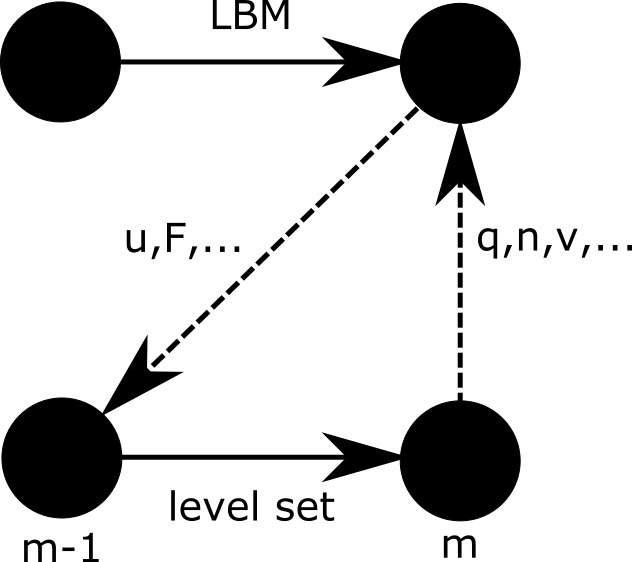
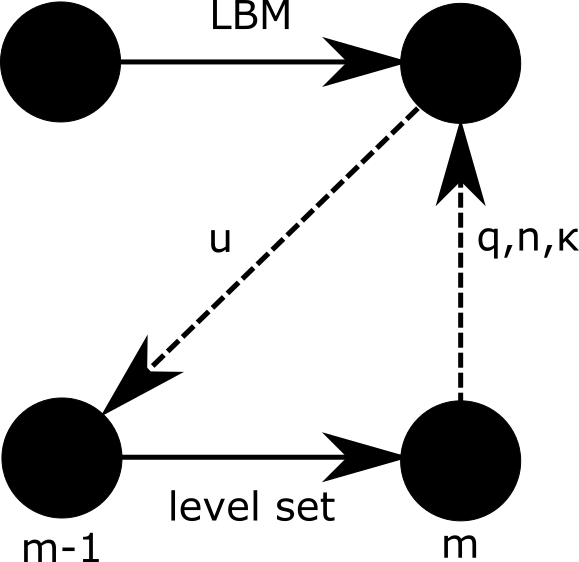
Paper in progress

diff --git a/Paper/paper.tex b/Paper/paper.tex
@@ -62,7 +62,7 @@ daniel.zint@fau.de % ist das so richtig?
 \slugger{siads}{xxxx}{xx}{x}{x--x}}%slugger should be set to juq, siads, sifin, or siims
 
 \begin{abstract}
-	We implemented the lattice Boltzmann method for immiscible multiphase flow simulations and combined it with the level set method according to the paper of G. Th\"ommes \cite{Thoemmes}. The level set method is used to calculate the movement of the interface between the two phases. The input for the level set method is computed by the lattice Boltzmann method. We reimplemented the test cases that are mentioned in the paper, to study the method-coupling and its impact on accuracy.
+	We implemented the lattice Boltzmann method for immiscible multiphase flow simulations and combined it with the level set method according to the paper of G. Th\"ommes et al. \cite{Thoemmes}. The level set method is used to calculate the movement of the interface between the two phases. The input for the level set method is computed by the lattice Boltzmann method. We verified our implementation with different test cases.
 \end{abstract}
 
 \begin{keywords}
@@ -83,16 +83,18 @@ daniel.zint@fau.de % ist das so richtig?
 %Something about the two-phase problem and some other algorithms that solve it. We could do this according to the presentation-slides.
 In engineering the immiscible two-phase flow problem often needs to be considered. For example, bubble dynamics are decisive for the design of chemical reactors. Also fingering in oil recovery is a common two-phase problem.
 
-The two-phase flow problem can be described with the Navier-Stokes equations for two incompressible fluids. To apply them, we distribute our domain into three parts: $\Omega_1$ and $\Omega_2$ describe the two fluids and $\Gamma = \delta\Omega_1 \cap \delta\Omega_2$ is the interface (Fig. \ref{intro_phases}). The material properties in each fluid are constant and the interface is assumed to be sharp. Thus the material properties are discontinuous and the fluids won't mix.
+The two-phase flow problem can be described with the Navier-Stokes equations for two incompressible fluids. 
+%TODO: Hier fehlen Referenzen! ausserdem muessen noch die Gleichungen unten gelabelt werden!!!
+To apply them, we distribute our domain into three parts: $\Omega_1$ and $\Omega_2$ describe the two fluids and $\Gamma = \delta\Omega_1 \cap \delta\Omega_2$ is the interface (Fig. \ref{intro_phases}). The material properties in each fluid are constant and the interface is assumed to be sharp. Thus the material properties are discontinuous and the fluids will not mix.
 
 \begin{figure}[h!]
 	\flushright
 	\includegraphics[width=11cm,natwidth=1690,natheight=1174]{skizze.png}
-	\caption{Two fluid domains $\Omega_i$ and the interface $\Gamma$ in between}
+	\caption{Two fluid domains $\Omega_i$ separated by an interface.}
 	\label{intro_phases}
 \end{figure}
 
-The evolution of the flow fields within each fluid can be expressed with the incompressible Navier-Stokes equations:
+The evolution of the flow fields within each fluid can be expressed with the incompressible Navier-Stokes equations
 \begin{equation}
 	\nabla \cdot  \vec u_i = 0 \text{  in } \Omega_i \text{,}
 \end{equation}
@@ -103,29 +105,30 @@ The evolution of the flow fields within each fluid can be expressed with the inc
 \end{equation}
 Here, $u_i$ is the velocity, $p_i$ the pressure, $\nu_i$ the kinematic viscosity and $\varrho_i$ the mass density.
 
-Furthermore, we need boundary conditions and initial conditions. For our domain-boundaries and the interior we can take for example
-\begin{equation}
-	\vec u_i(x,t) = 0 \text{, on } \delta\Omega_i \backslash \Gamma \text{,}
-\end{equation}
-\begin{equation}
+As boundary conditions and initial conditions we can take for example
+\begin{align}
+	\vec u_i(x,t) = 0 \text{, on } \delta\Omega_i \backslash \Gamma \text{,} \\
 	\vec u_i(x,0) = \vec u_{ini,i}(x) \text{, in } \Omega_i \text{.}
-\end{equation}
-For the interface $\Gamma$ we have the influence of the surface tension and a no-slip condition, i.e. continuity of the velocities between the fluid phases. Therefore, we get the following jump conditions:
-\begin{equation}
-	[\vec u] = 0 \text{,  } [T] \cdot \vec n = 2 \sigma \kappa \vec n \text{.}
+\end{align}
+For the interface $\Gamma$ we have the influence of the surface tension and a no-slip condition, i.e. continuity of the velocities between the fluid phases. Therefore, we get the jump conditions
+\begin{align}
+	[\vec u] = 0 \text{,  } \\
+	[T] \cdot \vec n = 2 \sigma \kappa \vec n \text{.}
 	\label{jumpconditions}
+\end{align}
+Here, T is the shear stress tensor, $\sigma$ the surface tension, and $\kappa$ the curvature of the interface with respect to its outer normal $\vec n$. Brackets denote the jump of a quantity at the interface, 
+\begin{equation}
+	[q](\vec x) = \lim_{\epsilon \rightarrow 0} (q(\vec x - \epsilon \vec n) - (q(\vec x + \epsilon \vec n)) \text{ with } \vec x \in \Gamma. % I also turned this around, according to [p].
 \end{equation}
-Here, T is the shear stress tensor, $\sigma$ the surface tension, and $\kappa$ the curvature of the interface with respect to its outer normal $\vec n$. Brackets denote the jump of a quantity at the interface: 
-$[q](\vec x) = \lim_{\epsilon \rightarrow 0} (q(\vec x - \epsilon \vec n) - (q(\vec x + \epsilon \vec n)) \text{ with } \vec x \in \Gamma$ % I also turned this around, according to [p].
-. In Fig. \ref{intro_phases} this would be the jump from $\Omega_1$ to $\Omega_2$. For the other direction the sign changes.
+In Fig. \ref{intro_phases} this is the jump from $\Omega_1$ to $\Omega_2$. For the other direction the sign changes.
 
-There are different approaches to solve the immiscible two-phase problem. The most spread among these approaches is the colour gradient method of Gunstensen and Rothman \cite{GRcg1,GRcg2,GRcg3}. The downside of this method is that it is only applicable for small density and viscosity differences. Another approach is the concept of {\it interaction potentials} by Shan and Chen \cite{ShanChen1,ShanChen2}. This method actually models miscible fluids and can only approximately describe the behavior of immiscible fluids. Furthermore there are free surface methods which only take one fluid in account for computation (\cite{Koerner}). They work best for big density and viscosity differences.
+There are different approaches to solve the immiscible two-phase problem. The most spread among these approaches is the colour gradient method of Gunstensen and Rothman \cite{GRcg1,GRcg2,GRcg3}. The downside of this method is that it is only applicable for small density and viscosity differences. Another approach is the concept of {\it interaction potentials} by Shan and Chen \cite{ShanChen1,ShanChen2}. This method actually models miscible fluids and can only approximately describe the behavior of immiscible fluids. Furthermore there are free surface methods which only take one fluid in account for computation (\cite{Koerner}). They work best for big density and viscosity ratios.
 
-The method we are presenting uses a hybrid lattice Boltzmann level set method. Thereby the interface motion is calculated by the level set method. The input data for the level set method is given by the lattice Boltzmann method, which is calculated independently for each fluid. This method has the advantage that it allows for big ranges of density and viscosity ratios between the fluid phases 
+In this publication we use a hybrid lattice Boltzmann level set method. Thereby the interface motion is calculated by the level set method. The input data for the level set method is given by the lattice Boltzmann method, which is calculated independently for each fluid. This method has the advantage that it allows for big ranges of density and viscosity ratios between the fluid phases 
 and has a high accuracy but requires only little memory %TODO das ist zu unscharf, glaube ich
 .
 
-This paper is organized as follows: Section 2 gives an introduction to the numerical methods and the coupling of these. In section 3 we present our results and finally in section 4 we draw a conclusion.
+This paper is organized as follows: Section 2 gives an introduction to the lattice Boltzmann method and the level set method and explains the coupling of these. In section 3 we present our results and finally in section 4 we draw a conclusion.
 
 \section{Numerical Methods}
 The algorithm uses two numerical methods. Before we show how these can be coupled, we will shortly introduce the numerical methods independently.
@@ -186,7 +189,7 @@ To solve this equation we use the Toolbox of Ian Mitchell \cite{mitchell} for Ma
 \subsection{Coupling of LBM and level set method}
 The lattice Boltzmann method requires a boundary treatment at the interface which implements the jump conditions (\ref{jumpconditions}). For sake of simplicity, we don't write arrows for every vector, i.e. $\vec{u} \rightarrow u$. One should consider that every position, direction, and velocity is two-dimensional. 
 
-For the coupling, we create a new boundary condition that is based on a bounce back type condition, that prescribes the velocity as  Dirichlet value. For example, in Fig. \ref{coupling} for a point $x_2 \in \Omega_2$ that is next to the phase interface we set
+For the coupling, we use a bounce back type boundary condition that prescribes the velocity as  Dirichlet value. For example, in Fig. \ref{coupling} for a point $x_2 \in \Omega_2$ that is next to the phase interface we set
 \begin{figure}
 	\hfill\includegraphics[width=10cm,natwidth=437,natheight=178]{coupling.png}\hspace*{\fill}
 	\caption{link between two points in different fluids}
@@ -199,7 +202,7 @@ Here, $\tilde{u}$ describes the linear interpolation of the velocity along the d
 $$
 \tilde{u} = qu(x_2,t) + (1-q)u(x_1,t) \text{.}
 $$
-The additional term $R_i$ ensures the jump conditions of the normal stress and corrects the error terms that is introduced by the first order accurate bounce back treatment. $R_i$ is given as:
+The additional term $R_i$ ensures the jump conditions of the normal stress and corrects the error terms that is introduced by the first order accurate bounce back treatment,
 \begin{equation}
 	R_i = 6 f_i^* \Lambda_i : A \text{ with } A = -q(1-q)[S] - (q - \frac12)S^{(2)} \text{, }
   \label{add_term2}
@@ -220,15 +223,13 @@ and use the following first-order estimate to obtain the shear rate from the non
 Furthermore, we have
 \begin{equation}
   \Lambda_i:[S] = ([S]:n \otimes n)((n \cdot c_i)^2 - \frac12 (c_i \cdot c_i)) + 2([S]:n \otimes t)(n \cdot c_i)(t \cdot c_i) \text{,}
+  \label{Lambda_iTimes_S}
 \end{equation}
-which is obtained by a coordinate transformation onto a basis $(n, t)$ of normal and tangential vector to the interface. From the fluid mechanical jump condition (\ref{jumpconditions}) and the relation $[\mu S] = \bar{\mu}[S] + [\mu]\bar{S} $ it can be seen:
-\begin{equation}
-	[S]:n \otimes n =  \frac{1}{2 \bar\mu} ([p] + 2 \sigma \kappa) - \frac{[\mu]}{\bar{\mu}} \bar{S} : n \otimes n \text{,}
-\end{equation}
-and
-\begin{equation}
+which is obtained by a coordinate transformation onto a basis $(n, t)$ of normal and tangential vector to the interface. From the fluid mechanical jump condition (\ref{jumpconditions}) and the relation $[\mu S] = \bar{\mu}[S] + [\mu]\bar{S} $ it can be seen,
+\begin{align}
+	[S]:n \otimes n =  \frac{1}{2 \bar\mu} ([p] + 2 \sigma \kappa) - \frac{[\mu]}{\bar{\mu}} \bar{S} : n \otimes n \text{,} \\
 	[S]:n \otimes t = - \frac{[\mu]}{\bar{\mu}} \bar{S} : n \otimes t \text{.}
-\end{equation}
+\end{align}
 Here $\mu_k = \varrho_k \nu_k$ are the dynamic viscosities, with $\bar{\mu} = (\mu_1 + \mu_2)/2$ and $\bar{S} = (S_1 + S_2)/2$ as averaged quantities, $\kappa$ the interface curvature, and the visocity jump  $[\mu] = \mu_2 - \mu_1$.
 The pressure jump is approximated by
 \begin{equation}
@@ -252,11 +253,11 @@ Suppose we choose an inward pointing direction $c_i$ in a boundary point $x \in 
 	\label{refill}
 \end{figure}
 Figure \ref{refill} shows the cells we use for the interpolation. In \cite{Thoemmes} the velocity is interpolated by using the velocity of the interface. The Ian-Mitchell toolbox does not provide a function to access this value.  %TODO das ist misverständlich.
-Therefore, we follow the formula given in \cite{Lallemand} that is basically the same we use for density:
+Therefore, we follow the formula given in \cite{Lallemand} that is basically the same we use for density,
 \begin{equation}
   \tilde{u}(x) = 3u(x+c_i,t+1) - 3u(x+2c_i,t+1) + u(x+3c_i,t+1) \text{.}
 \end{equation}
-We can now calculate the new equilibrium part of the particle densities in $x$, $f_i^{eq}(\tilde{\rho},\tilde{u})$ and add them to the non-equilibrium part which we copy from a nearest neighbor:
+We can now calculate the new equilibrium part of the particle densities in $x$, $f_i^{eq}(\tilde{\rho},\tilde{u})$ and add them to the non-equilibrium part which we copy from a nearest neighbor,
 $$f_i(\vec{x},t+1) = f_i^{eq}(\tilde{\rho},\tilde{u}) + f_i^{neq}(x+c_i,t+1) \text{.}$$
 This completes the refill algorithm.
 
@@ -275,10 +276,10 @@ Finally, we can couple the two methods in the following way:
 \end{itemize}
 
 \section{Results and Examples}
-To verify the correctness of our implementation we firstly created a Couette flow and compared our results with the one we get from the analytic solution. Secondly, we used the same LBM setup but with a different fluid distribution to check the behavior of our implementation for more complex problems.
+To verify the correctness of our implementation we firstly built a Couette flow and compared our results with the one we get from the analytic solution. Secondly, we used the Young-Laplace experiment for a bubble to validate the implementation of surface tension.
 
 \subsection{Couette channel flow}
-The Couette channel flow consists of a fixed lower wall at $y=0$ and an upper wall at $y=1$ that is moving with a constant velocity. At these walls we use no-slip boundary conditions. To create a channel flow, we use periodic boundary conditions for the boundaries at the inflow $x=0$ and the outflow $x=1$. The two fluids are distributed in a way that the interface is parallel to our walls.
+The Couette channel flow consists of a fixed lower wall at $y=0$ and an upper wall at $y=1$ that is moving with a constant velocity. At these walls we use no-slip boundary conditions. To generate a channel flow, we use periodic boundary conditions for the boundaries at the inflow $x=0$ and the outflow $x=1$. The two fluids are distributed in a way that the interface is parallel to our walls.
 %TODO: give information about the parameter
 %TODO: show graph with results
 
@@ -288,8 +289,12 @@ v(x) = \begin{cases} v_0 (\frac{\mu_1}{\mu_1+\mu_2}x + \frac{\mu_2}{\mu_1+\mu_2}
 $$
 where $\mu_1$ denotes the dynamic viscosity in the lower fluid and $\mu_2$ the viscosity in upper fluid.
 
-\subsection{Bubble tracing}
-To verify the correctness of our implementation also for more complex problems, we changed the fluid distribution in our Couette channel flow such that one fluid is a bubble within the other fluid. We set all material parameters of the fluids to the same values. Thus one would expect that we get the same flow field as for only a single fluid and the interface merely serves as a tracer. FIGURE ?? shows how the bubble that is initialized as circle changes to an elliptic shape caused by the flow field within the channel.
+\subsection{Young-Laplace experiment for a bubble}
+The Couette-Flow is not influenced by surface tension due to the fact that the surface tension is multiplied with the curvature in Equation \ref{Lambda_iTimes_S} and the curvature is zero in the Couette-Flow. We use the Young-Laplace experiment to validate the implementation of surface tension. The pressure $p$ inside a bubble of radius $r$ is proportional to the surface tension coefficient $\sigma$ according to the Young-Laplace law
+\begin{equation}
+	p = \frac{2\sigma}{r} = 2 \sigma \kappa .
+\end{equation}
+
 
 %TODO: name the settings we used
 %TODO: add some nice pictures
